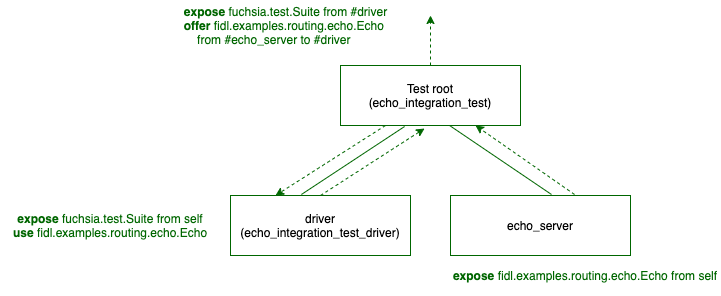
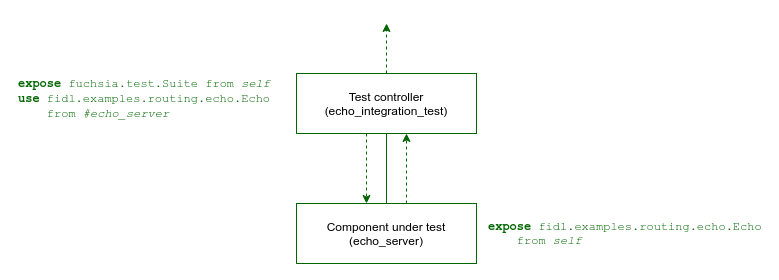
[component][test] Update integration test example
Remove driver pattern from echo integration test example and
update related integration testing guide.

Commit-Queue: Dave Smith <smithdave@google.com>

diff --git a/examples/components/routing/integration_tests/src/lib.rs b/examples/components/routing/integration_tests/src/lib.rs
@@ -2,12 +2,20 @@
 // Use of this source code is governed by a BSD-style license that can be
 // found in the LICENSE file.
 
-use {fidl_fidl_examples_routing_echo as fecho, fuchsia_component::client::connect_to_protocol};
+use {
+    anyhow::{self, Error},
+    fidl_fidl_examples_routing_echo as fecho,
+    fuchsia_component::client,
+};
 
 #[fuchsia::test]
-async fn test_echo() {
+async fn echo_integration_test() -> Result<(), Error> {
     const ECHO_STRING: &str = "Hello, world!";
-    let echo = connect_to_protocol::<fecho::EchoMarker>().expect("error connecting to echo");
+
+    let echo = client::connect_to_protocol::<fecho::EchoMarker>()
+        .expect("error connecting to echo server");
     let out = echo.echo_string(Some(ECHO_STRING)).await.expect("echo_string failed");
+
     assert_eq!(ECHO_STRING, out.unwrap());
+    Ok(())
 }

diff --git a/src/sys/test_runners/rust/tests/main.rs b/src/sys/test_runners/rust/tests/main.rs
@@ -21,10 +21,10 @@ async fn launch_and_test_echo_test() {
 
     let expected_events = vec![
         RunEvent::suite_started(),
-        RunEvent::case_found("test_echo"),
-        RunEvent::case_started("test_echo"),
-        RunEvent::case_stopped("test_echo", CaseStatus::Passed),
-        RunEvent::case_finished("test_echo"),
+        RunEvent::case_found("echo_integration_test"),
+        RunEvent::case_started("echo_integration_test"),
+        RunEvent::case_stopped("echo_integration_test", CaseStatus::Passed),
+        RunEvent::case_finished("echo_integration_test"),
         RunEvent::suite_stopped(SuiteStatus::Passed),
     ];
     assert_eq!(expected_events, events);

diff --git a/docs/concepts/testing/v2/integration_testing.md b/docs/concepts/testing/v2/integration_testing.md
@@ -1,4 +1,4 @@
-# Complex topologies and integration testing
+# Integration testing topologies
 
 <<../../components/_v2_banner.md>>
 
@@ -7,79 +7,64 @@ same realm and exchanging capabilities. While the majority of tests are unit
 tests that span only a single component, integration testing scenarios call for
 defining realm topologies and capability routes.
 
-In cases where the components in the test are static, the "driver" pattern
-should be used to create a statically defined topology for the test.
-In cases where realm topology needs to be defined at run time, or components
+In cases where all components in the test are static, you can define the
+topology for the test realm in the test component manifest.
+In cases where realm topology needs to be defined at runtime, or components
 need to be mocked out, [Realm Builder][realm-builder] should be used.
 
-## The "driver" pattern for v2 component tests
+Note: The example code referenced in this guide can be found under
+[`//examples/components/routing/integration_tests`][driver-pattern-example].
 
-We demonstrate the driver pattern for writing an integration test with a custom
-component topology.
+## Component topology
 
-### Build definition
+The integration test component declares the topology of the test realm with
+itself as the parent. This allows the test controller to be responsible for
+capability routing between components under test and their dependencies.
 
-We define the `BUILD.gn` file as shown below:
+The following is an example topology for integration testing the `echo_server`
+component:
 
-```gn
-{% includecode gerrit_repo="fuchsia/fuchsia" gerrit_path="examples/components/routing/integration_tests/BUILD.gn" region_tag="example_snippet" adjust_indentation="auto" %}
-```
+<br>![Integration test topology](images/echo-test-topology.png)<br>
 
-### Component topology
+This is a simple test realm that binds to the `fidl.examples.routing.echo.Echo`
+protocol exposed by the `echo_server` component.
+The `echo_integration_test` package contains the following components:
 
-The topology for the test realm in this example looks as follows:
-
-<br>![Test driver topology](images/echo-test-topology.png)<br>
-
-In this example the test package `echo_integration_test` contains three
-components:
-
-- **echo_integration_test** - Main entry point
+- **echo_integration_test** - Test controller
 - **echo_server** - Component under test
-- **echo_integration_test_driver** - Test driver
-
-`echo_integration_test` has two children:
-
-- **echo_integration_test_driver**
-- **echo_server**
-
-This is a simple component realm that launches `echo_server` and
-`echo_integration_test_driver`, and routes `fidl.examples.routing.echo.Echo`.
-
-Finally, note that all components under test are included in the test's own
-package. This promotes hermeticity and has many benefits. For instance it's
-possible to push an updated version of the same package to the device and run
-the test again without worrying whether the different components are all of the
-same version or have fallen out of sync.
-
-### Test Runner Framework integration
-
-Note that the driver component exposes `fuchsia.test.Suite` from its child to
-the test root. The root of a test realm must always expose this protocol in
-order to integrate with the [Test Runner Framework][trf].
-
-The root realm is defined as follows:
 
 ```json5
 {% includecode gerrit_repo="fuchsia/fuchsia" gerrit_path="examples/components/routing/integration_tests/meta/echo_integration_test.cml" region_tag="example_snippet" adjust_indentation="auto" %}
 ```
 
-`echo_integration_test_driver` contains the test logic and expectations.
-The driver connects to the echo server and verifies it responds with an echo.
+The test controller component contains the test case logic, and interacts with
+the `echo_server` through its exposed capabilities.
 
-Note that this is a Rust test, and therefore includes `rust/default.shard.cml`
-as required to integrate with the [Test Runner Framework][trf].
+### Test Runner Framework integration
 
-```json5
-{% includecode gerrit_repo="fuchsia/fuchsia" gerrit_path="examples/components/routing/integration_tests/meta/echo_integration_test_driver.cml" region_tag="example_snippet" adjust_indentation="auto" %}
+The integration test component includes `test_runners/rust/default.shard.cml`
+in order to integrate with the [Test Runner Framework][trf]. This shard provides
+two key elements:
+
+1.  Expose the `fuchsia.test.Suite` protocol, required for the framework to
+    discover and execute the test cases.
+1.  Set the program `runner` to the Rust test runner, required to execute test
+    cases using the Rust testing framework.
+
+## Build definition
+
+See the following `BUILD.gn` file that defines the `fuchsia_test_package()`
+target for this example:
+
+```gn
+{% includecode gerrit_repo="fuchsia/fuchsia" gerrit_path="examples/components/routing/integration_tests/BUILD.gn" region_tag="example_snippet" adjust_indentation="auto" %}
 ```
 
-### Further study
+All components under test are included in the same **hermetic test package**.
+This promotes the ability to run and update tests in different environments
+without concern for dependencies falling out of sync.
 
-The code for this example can be found under
-[`//examples/components/routing/integration_tests`][driver-pattern-example].
-
-### Determining a component's moniker {#test-component-moniker}
+## Determining a component's moniker {#test-component-moniker}
 
 The `ArchiveReader` library allows your test to validate data in Inspect. The
 moniker for a component is always relative to the root realm. For a component
